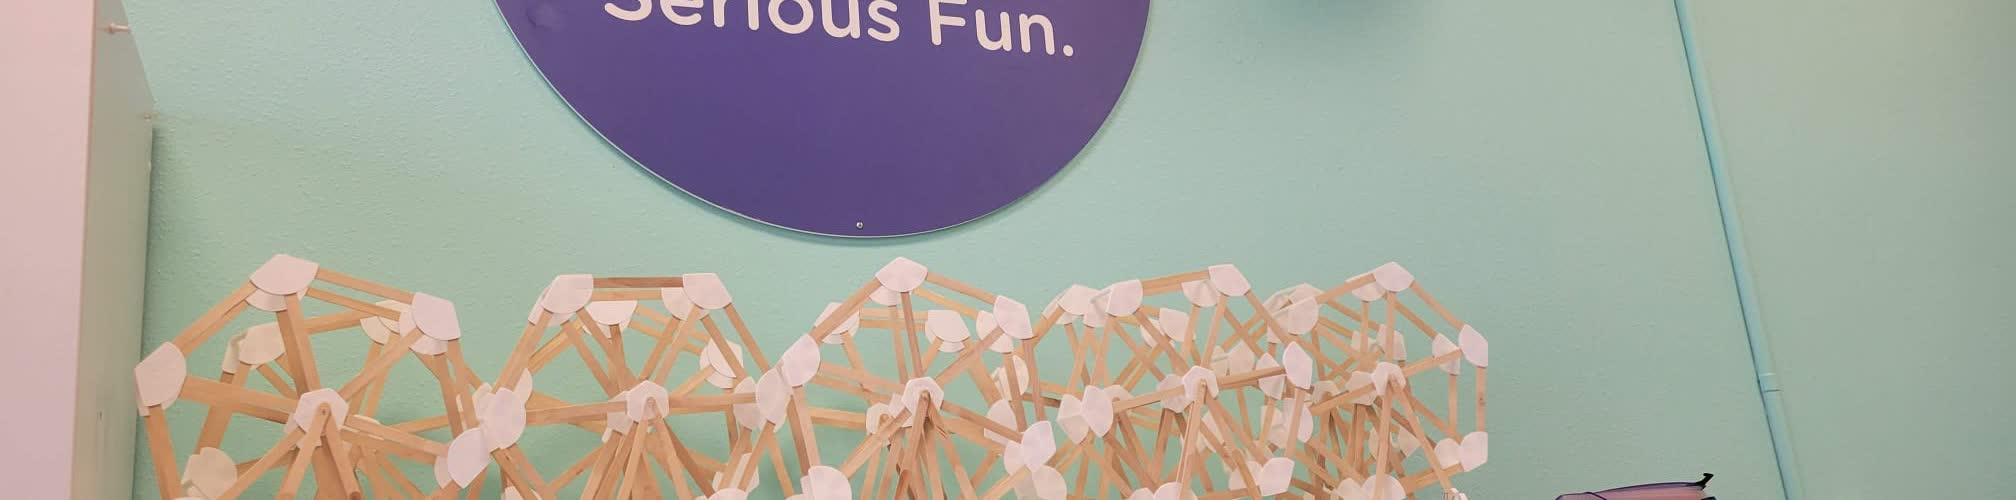
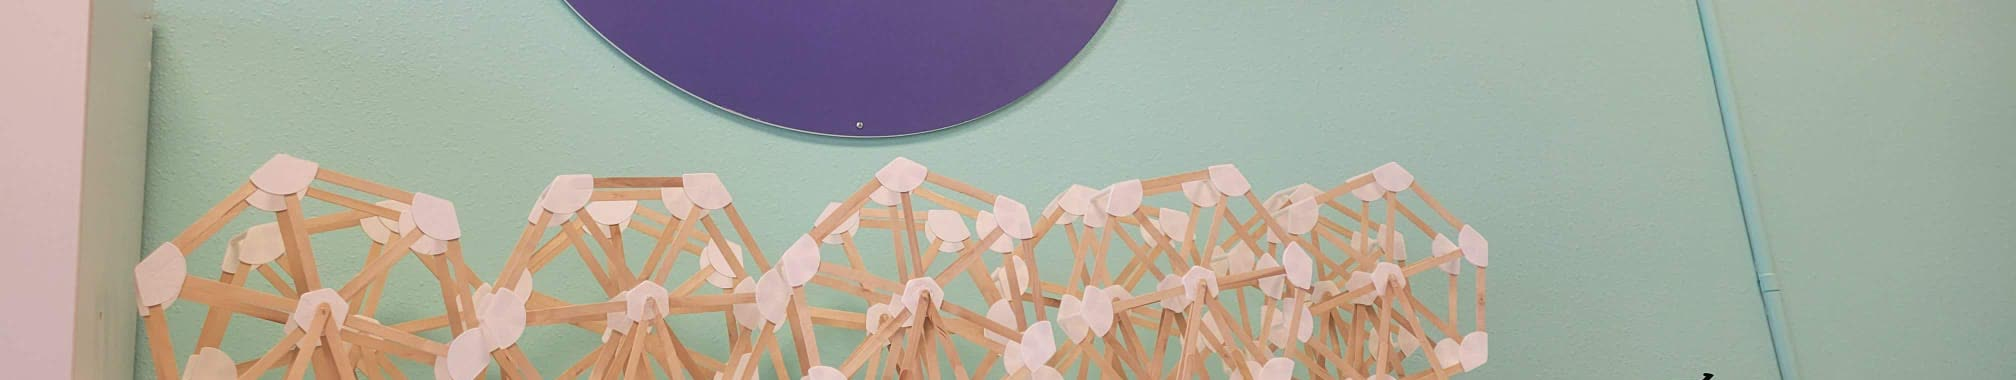
Anonymize client, blur gym signage, lower preview crop onto wheels
Removes the client's name and Instagram link in favor of generic
"child development center" framing, blurs the branded signage in the
display photo, tightens the preview crop to the wheels, and adds the
straws-and-paper prototype backstory.

diff --git a/_projects/little_gym_ferris_wheel_kits/index.md b/_projects/little_gym_ferris_wheel_kits/index.md
@@ -2,7 +2,7 @@
 layout: post
 order: 5
 title: Popsicle-Stick Ferris Wheel Build Kits
-description: Designed and 3D printed a 35-kit batch of snap-together joints that let kids build their own working popsicle-stick Ferris wheel, commissioned for The Little Gym of Corvallis.
+description: Designed and 3D printed a 35-kit batch of snap-together joints that let kids build their own working popsicle-stick Ferris wheel, commissioned by a local child development center.
 skills:
   - Fusion 360
   - Parametric Modeling
@@ -16,14 +16,14 @@ main-image: /gym_display_wheels_crop.jpg
 
 # Popsicle-Stick Ferris Wheel Build Kits
 
-**Client:** The Little Gym of Corvallis
+**Client:** A local child development center
 **Deliverable:** 35 build-your-own-Ferris-wheel kits for a kids' craft activity
 
 ---
 
 ## The Brief
 
-The Little Gym of Corvallis wanted a hands-on activity kids could build themselves: a Ferris wheel made from ordinary popsicle sticks. My job was to design the hardware that makes that possible — a set of 3D printed joints that snap onto sticks and hold them at the exact angles needed to form a hexagonal wheel, repeated across 35 kits.
+A local child development center wanted a hands-on craft activity kids could build themselves: a Ferris wheel made from ordinary popsicle sticks, easy enough for small hands to assemble on their own. Their first prototype was straws and pieces of paper held together with glue — functional as a one-off, but too fragile and fiddly to hand to 35 different kids. I proposed a 3D printed alternative instead: a set of joints that snap onto sticks and hold them at the exact angles needed to form a hexagonal wheel, repeated across 35 kits.
 
 <video src="/_projects/little_gym_ferris_wheel_kits/assembly_clip.mp4" autoplay loop muted playsinline style="max-width:420px; width:100%; border-radius:6px; margin-bottom:1.5rem;"></video>
 
@@ -70,7 +70,7 @@ I also ran a batch in a glow-in-the-dark filament, which doubled as an easy way 
 <img src="/_projects/little_gym_ferris_wheel_kits/product_shot_a.jpg" style="max-width:550px; width:100%; border-radius:6px; margin-bottom:1.5rem;">
 <img src="/_projects/little_gym_ferris_wheel_kits/product_shot_b.jpg" style="max-width:550px; width:100%; border-radius:6px; margin-bottom:1.5rem;">
 
-35 kits shipped out and went up on display at The Little Gym of Corvallis ([instagram.com/p/Chc7rc_sqf9](https://www.instagram.com/p/Chc7rc_sqf9/)):
+35 kits shipped out and went up on display at the center:
 
 <img src="/_projects/little_gym_ferris_wheel_kits/gym_display.jpg" style="max-width:700px; width:100%; border-radius:6px; margin-bottom:1.5rem;">
 